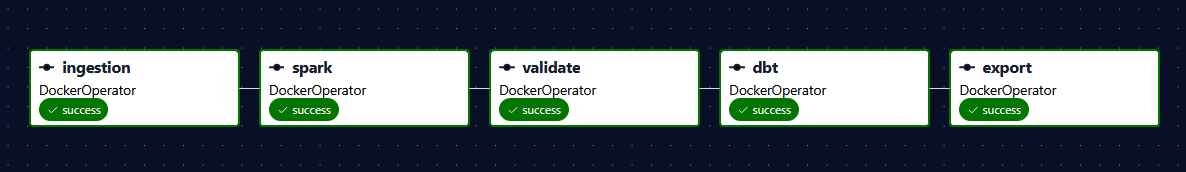
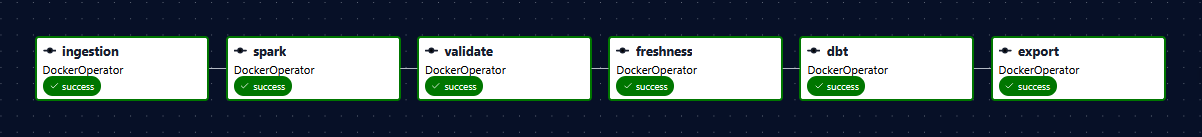
feat: warn on stale sources with dbt source freshness

diff --git a/dags/cnmv_pipeline.py b/dags/cnmv_pipeline.py
@@ -1,4 +1,4 @@
-"""CNMV pipeline: ingestion -> spark -> validate -> dbt -> export.
+"""CNMV pipeline: ingestion -> spark -> validate -> freshness -> dbt -> export.
 
 Airflow only orchestrates. Each stage is one of the project's images, started as a
 sibling container; the stage's exit code decides success or failure. The pipeline is
@@ -64,6 +64,8 @@ def cnmv_pipeline():
         "cnmv-spark",
         entrypoint=["python", "-m", "spark.jobs.validate_silver"],
     )
+    # Warns when a source is older than its publication cadence; never fails the run
+    freshness = stage("freshness", "cnmv-dbt", "source freshness")
     dbt = stage("dbt", "cnmv-dbt", "build")
     export = stage(
         "export",
@@ -71,7 +73,7 @@ def cnmv_pipeline():
         entrypoint=["python", "-m", "bi.export_gold"],
     )
 
-    ingestion >> spark >> validate >> dbt >> export
+    ingestion >> spark >> validate >> freshness >> dbt >> export
 
 
 cnmv_pipeline()

diff --git a/tests/dags/test_cnmv_pipeline.py b/tests/dags/test_cnmv_pipeline.py
@@ -14,7 +14,7 @@ import pytest
 pytest.importorskip("airflow.sdk")
 
 DAG_FILE = Path(__file__).parents[2] / "dags" / "cnmv_pipeline.py"
-STAGES = ["ingestion", "spark", "validate", "dbt", "export"]
+STAGES = ["ingestion", "spark", "validate", "freshness", "dbt", "export"]
 
 
 @pytest.fixture

diff --git a/README.md b/README.md
@@ -6,7 +6,7 @@
 [![License: MIT](https://img.shields.io/github/license/a-egealopez/cnmv-investment-funds-platform)](LICENSE)
 
 ![Python](https://img.shields.io/badge/Python-3.12-3776AB?logo=python&logoColor=white)
-![PySpark](https://img.shields.io/badge/PySpark-4.2-E25A1C?logo=apachespark&logoColor=white)
+![PySpark](https://img.shields.io/badge/PySpark-4.3-E25A1C?logo=apachespark&logoColor=white)
 ![dbt](https://img.shields.io/badge/dbt--core-1.12-FF694B?logo=dbt&logoColor=white)
 ![DuckDB](https://img.shields.io/badge/DuckDB-dbt--duckdb_1.11-FFF000?logo=duckdb&logoColor=black)
 ![Airflow](https://img.shields.io/badge/Airflow-3.4-017CEE?logo=apacheairflow&logoColor=white)
@@ -172,6 +172,7 @@ flowchart TB
 
 - **Explicit schemas.** Each parser reads the XML with a declared input schema and checks its output against a Silver contract.
 - **A quality gate before dbt.** Structural problems in Silver, such as missing periods, duplicate keys or wrong types, stop the pipeline. Semantic issues are reported as warnings instead.
+- **Stale data is flagged.** `dbt source freshness` warns when a CNMV or ECB source falls behind its publication cadence (monthly, semiannual or daily), so a late release never goes unnoticed.
 - **Nothing is silently dropped.** Suspicious records are quarantined with a reason and surfaced as anomalies, never deleted.
 
 ### Testing
@@ -214,7 +215,7 @@ Workflows run with a read-only token by default, and only the publish job can wr
 
 ## Results
 
-**Orchestration.** The weekly DAG in Airflow: five containerized tasks from ingestion to the BI export, run in order, with retries and never two runs at once.
+**Orchestration.** The weekly DAG in Airflow: six containerized tasks from ingestion to the BI export, run in order, with retries and never two runs at once.
 
 ![Airflow DAG](docs/images/airflow_dag.png)
 

diff --git a/docs/technical/architecture.md b/docs/technical/architecture.md
@@ -54,11 +54,12 @@ Airflow DAG cnmv_pipeline (weekly), one DockerOperator task per stage:
 1. ingestion  download every CNMV period published since 202001 that is not yet in the manifest, plus €STR
 2. spark      parse new or changed Bronze periods into Silver (build_silver.py --pending)
 3. validate   quality gate on Silver (validate_silver.py, FINDINGS contract)
-4. dbt        dbt build: staging (views) → intermediate → dimensions, facts and marts (tables), with meta_run as the single cut-off
-5. export     Gold tables to Parquet for Power BI
+4. freshness  dbt source freshness: warns when a source is older than its publication cadence allows
+5. dbt        dbt build: staging (views) → intermediate → dimensions, facts and marts (tables), with meta_run as the single cut-off
+6. export     Gold tables to Parquet for Power BI
 ```
 
-Without Airflow, `docker compose up` runs the same five stages in order and stops at the first failure; `docker compose run --rm --no-deps <service>` runs one stage.
+Without Airflow, `docker compose up` runs the same six stages in order and stops at the first failure; `docker compose run --rm --no-deps <service>` runs one stage.
 
 ## Design Decisions
 
